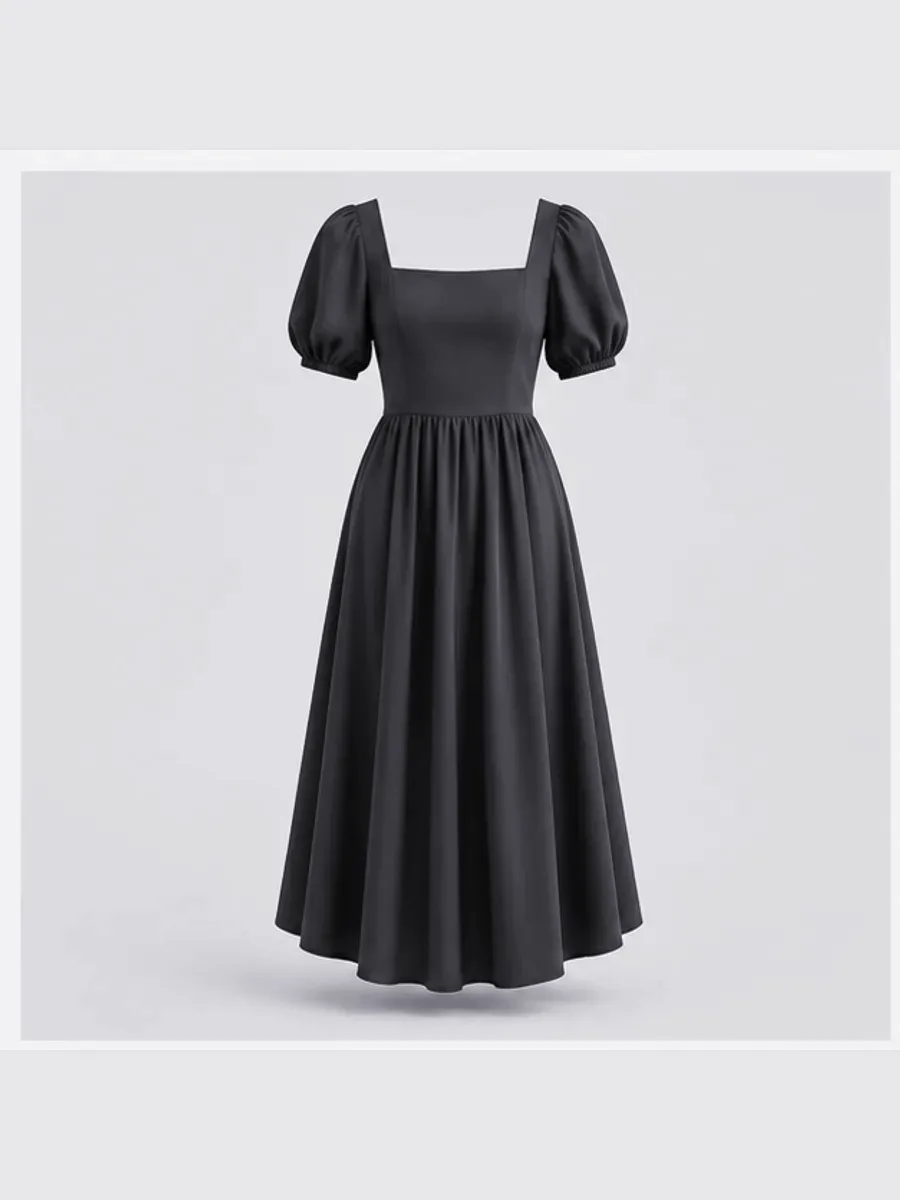
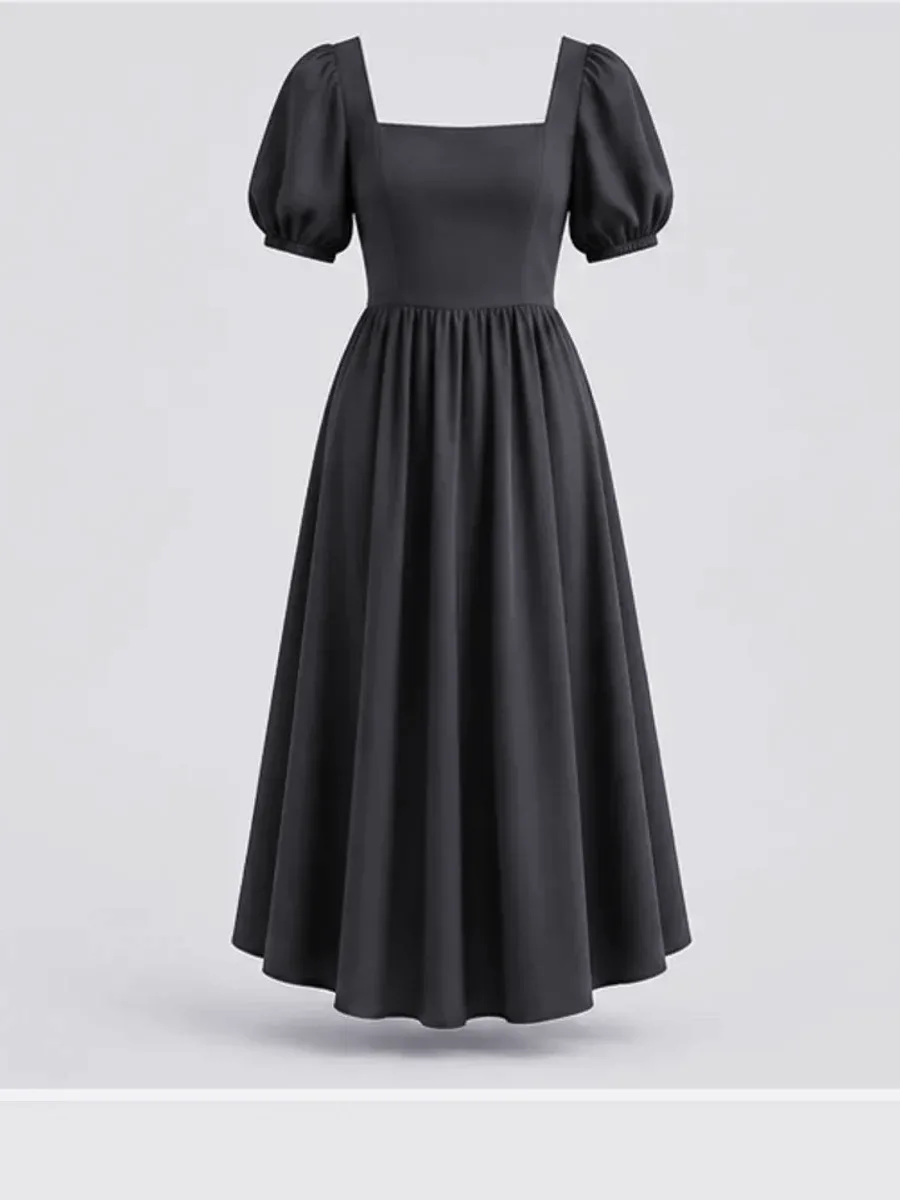
Corrige ajuste automático das imagens da vitrine

Changed region(s): [[0.0, 0.0308, 0.7778, 0.8942]]

diff --git a/admin.html b/admin.html
@@ -120,7 +120,7 @@
         <form id="productForm">
           <input name="id" type="hidden" />
           <div class="productEditor">
-            <div class="productImageEditor"><strong>Foto principal</strong><div class="productImagePreview"><img id="productImagePreview" alt="Prévia do produto" /><span id="productImagePlaceholder">Sem imagem</span></div><label class="secondaryButton" for="productImageFile">Substituir foto principal</label><input id="productImageFile" type="file" accept="image/*" hidden /><button class="dangerTextButton removeImageButton" id="removeProductImageButton" type="button">Remover foto</button><small>Usada como capa e também quando uma cor não tiver foto própria. Ajuste automático para 900 × 1200 px, em WebP.</small><label>Ou use uma URL<input name="image" /></label></div>
+            <div class="productImageEditor"><strong>Foto principal</strong><div class="productImagePreview"><img id="productImagePreview" alt="Prévia do produto" /><span id="productImagePlaceholder">Sem imagem</span></div><label class="secondaryButton" for="productImageFile">Substituir foto principal</label><input id="productImageFile" type="file" accept="image/*" hidden /><button class="dangerTextButton removeImageButton" id="removeProductImageButton" type="button">Remover foto</button><small>Usada como capa e também quando uma cor não tiver foto própria. O envio corta margens vazias, centraliza e converte automaticamente para WebP.</small><aside class="imageGuide"><strong>Padrão ideal da vitrine</strong><ul><li>900 × 1200 px</li><li>Proporção vertical 3:4</li><li>Peça inteira e centralizada</li><li>Fundo limpo, sem bordas</li></ul><span>Preparar imagem — opções gratuitas:</span><div class="imageToolLinks"><a href="https://www.remove.bg/upload" target="_blank" rel="noopener">remove.bg</a><a href="https://www.canva.com/features/image-resizer/" target="_blank" rel="noopener">Canva</a><a href="https://www.adobe.com/express/feature/image/remove-background" target="_blank" rel="noopener">Adobe IA</a></div></aside><label>Ou use uma URL<input name="image" /></label><small>Links externos são enquadrados na vitrine, mas não podem receber o recorte inteligente. Para melhor resultado, baixe a imagem e envie o arquivo.</small></div>
             <div class="productFields"><div class="fieldGrid"><label class="span2">Nome<input name="name" required /></label><label>Categoria<input name="category" list="categoryOptions" required /></label><datalist id="categoryOptions"></datalist><label>Preço (R$)<input name="price" type="number" min="0" step="0.01" required /></label><label>Estoque<input name="stock" type="number" min="0" step="1" required /></label><label>Etiqueta<select name="tag"><option value="">Sem etiqueta</option><option value="novo">Novo</option><option value="mais vendido">Mais vendido</option><option value="últimas peças">Últimas peças</option></select></label><label class="span2">Tamanhos <small>separados por vírgula</small><input name="sizes" placeholder="P, M, G" /></label><div class="span2 colorVariantsField"><div class="colorVariantsHeading"><div><strong>Cores e fotos</strong><small>Cadastre uma foto para cada cor. A vitrine trocará a peça quando a cliente tocar na cor.</small></div><button class="secondaryButton" id="addColorVariantButton" type="button">Adicionar cor</button></div><div class="colorVariantList" id="colorVariantList"></div></div></div><div class="toggleRow"><label><input name="active" type="checkbox" checked /> Visível na loja</label><label><input name="featured" type="checkbox" /> Destaque de campanha</label></div></div>
           </div>
           <div class="modalActions"><button class="dangerTextButton" id="deleteProductButton" type="button" hidden>Excluir produto</button><div><button class="secondaryButton" id="cancelProductButton" type="button">Cancelar</button><button class="primaryButton" type="submit">Salvar produto</button></div></div>

diff --git a/src/admin.js b/src/admin.js
@@ -350,14 +350,65 @@ function addColorVariant() {
 
 async function resizeImage(file, width, height, quality = 0.82) {
   const source = await createImageBitmap(file);
+  const analysisWidth = Math.min(240, source.width);
+  const analysisHeight = Math.max(1, Math.round(source.height * analysisWidth / source.width));
+  const analysisCanvas = document.createElement('canvas');
+  analysisCanvas.width = analysisWidth;
+  analysisCanvas.height = analysisHeight;
+  const analysisContext = analysisCanvas.getContext('2d', { willReadFrequently: true });
+  analysisContext.drawImage(source, 0, 0, analysisWidth, analysisHeight);
+  const pixels = analysisContext.getImageData(0, 0, analysisWidth, analysisHeight).data;
+  const detailedRows = [];
+  for (let y = 0; y < analysisHeight; y += 1) {
+    let min = 255;
+    let max = 0;
+    for (let x = 0; x < analysisWidth; x += 4) {
+      const offset = (y * analysisWidth + x) * 4;
+      const luminance = pixels[offset] * 0.299 + pixels[offset + 1] * 0.587 + pixels[offset + 2] * 0.114;
+      min = Math.min(min, luminance);
+      max = Math.max(max, luminance);
+    }
+    if (max - min > 28) detailedRows.push(y);
+  }
+
+  let cropTop = 0;
+  let cropBottom = source.height;
+  if (detailedRows.length) {
+    const detectedTop = detailedRows[0] / analysisHeight * source.height;
+    const detectedBottom = (detailedRows.at(-1) + 1) / analysisHeight * source.height;
+    const padding = Math.max(20, (detectedBottom - detectedTop) * 0.08);
+    const candidateTop = Math.max(0, detectedTop - padding);
+    const candidateBottom = Math.min(source.height, detectedBottom + padding);
+    const removesEmptyMargin = candidateTop > source.height * 0.06 || candidateBottom < source.height * 0.94;
+    if (removesEmptyMargin && candidateBottom - candidateTop > source.height * 0.45) {
+      cropTop = candidateTop;
+      cropBottom = candidateBottom;
+    }
+  }
+
+  let sourceX = 0;
+  let sourceY = cropTop;
+  let sourceWidth = source.width;
+  let sourceHeight = cropBottom - cropTop;
+  const targetRatio = width / height;
+  if (sourceWidth / sourceHeight > targetRatio) {
+    const fittedWidth = sourceHeight * targetRatio;
+    sourceX = (sourceWidth - fittedWidth) / 2;
+    sourceWidth = fittedWidth;
+  } else {
+    const fittedHeight = sourceWidth / targetRatio;
+    sourceY += (sourceHeight - fittedHeight) / 2;
+    sourceHeight = fittedHeight;
+  }
+
   const canvas = document.createElement('canvas');
   canvas.width = width;
   canvas.height = height;
   const context = canvas.getContext('2d');
-  const scale = Math.max(width / source.width, height / source.height);
-  const sourceWidth = width / scale;
-  const sourceHeight = height / scale;
-  context.drawImage(source, (source.width - sourceWidth) / 2, (source.height - sourceHeight) / 2, sourceWidth, sourceHeight, 0, 0, width, height);
+  context.fillStyle = '#f5f1e8';
+  context.fillRect(0, 0, width, height);
+  context.drawImage(source, sourceX, sourceY, sourceWidth, sourceHeight, 0, 0, width, height);
+  source.close?.();
   return canvas.toDataURL('image/webp', quality);
 }
 

diff --git a/src/admin.css b/src/admin.css
@@ -163,6 +163,13 @@ input:focus, textarea:focus, select:focus { border-color: var(--admin-gold) !imp
 .productImagePreview { aspect-ratio: 3/4; display: grid; place-items: center; overflow: hidden; border-radius: 9px; background: #e8e6de; color: var(--admin-muted); }
 .productImagePreview img { width: 100%; height: 100%; object-fit: cover; }
 .productImageEditor small, .productFields small { color: var(--admin-muted); font-weight: 400; }
+.imageGuide { display: grid; gap: 9px; padding: 13px; border: 1px solid var(--admin-line); border-radius: 9px; background: #f8f6ef; font-size: .78rem; }
+.imageGuide strong { color: var(--admin-green); }
+.imageGuide ul { display: grid; gap: 4px; margin: 0; padding-left: 18px; color: var(--admin-muted); }
+.imageGuide > span { font-weight: 600; }
+.imageToolLinks { display: flex; flex-wrap: wrap; gap: 7px; }
+.imageToolLinks a { padding: 7px 9px; border: 1px solid var(--admin-line); border-radius: 6px; background: var(--admin-card); color: var(--admin-green); font-weight: 600; text-decoration: none; }
+.imageToolLinks a:hover { border-color: var(--admin-gold); }
 .fieldGrid { display: grid; grid-template-columns: 1fr 1fr; gap: 14px; }
 .span2 { grid-column: 1 / -1; }
 .colorVariantsField { padding: 16px; border: 1px solid var(--admin-line); border-radius: 10px; background: #f8f6ef; }

diff --git a/src/style.css b/src/style.css
@@ -343,7 +343,7 @@ button { font-family: inherit; cursor: pointer; }
   overflow: hidden;
   flex-shrink: 0;
 }
-.card__photo img { width: 100%; height: 100%; object-fit: cover; }
+.card__photo img { width: 100%; height: 100%; object-fit: cover; object-position: center; display: block; }
 
 .card__tagBadge {
   position: absolute;
